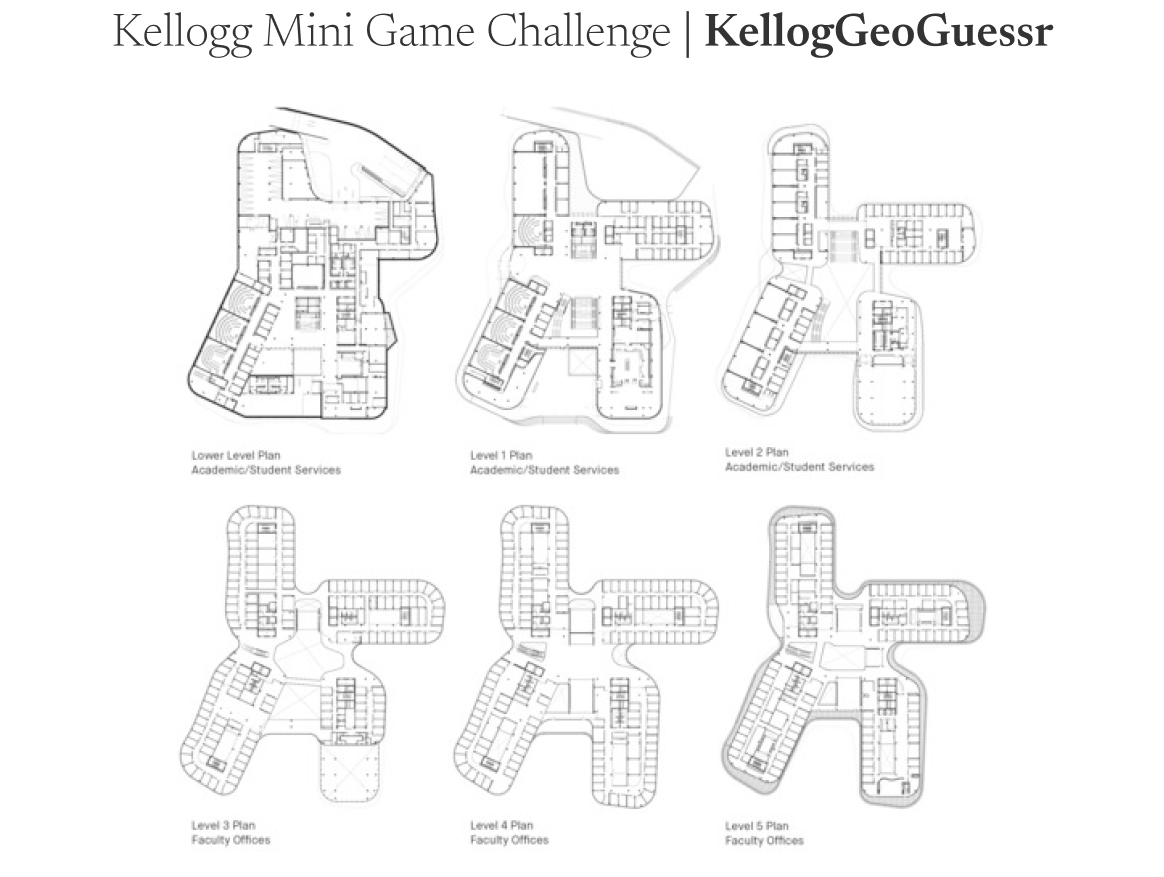
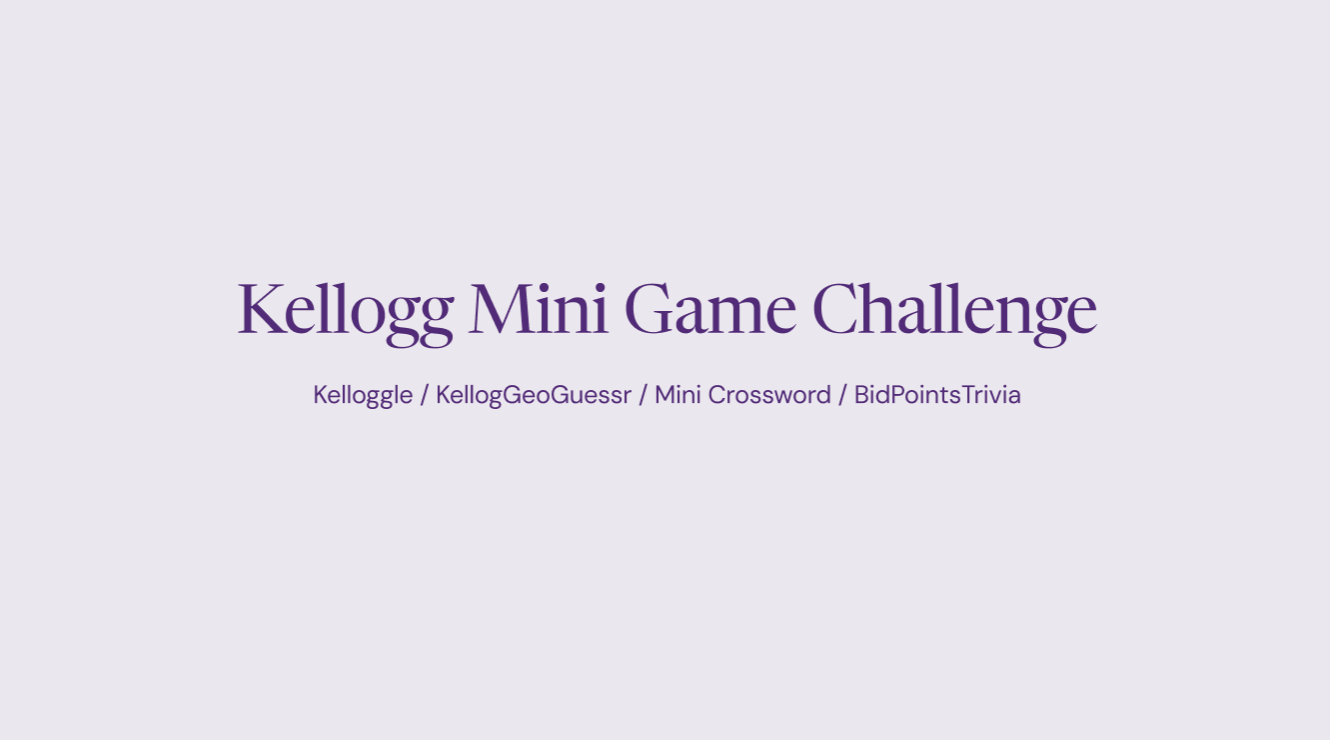
fixed covers

diff --git a/projects.js b/projects.js
@@ -307,7 +307,7 @@ const projectsData = [
         role: "Developer",
         year: "2024",
         category: "visuals games software",
-        image: "assets/catan-clash-logo.png",
+        image: "assets/catan_clash_cover.png",
         link: "https://catan-website-git-main-gautamchebrolus-projects.vercel.app/",
         detail: {
             heroImage: "assets/catan_clash.png",
@@ -438,10 +438,10 @@ const projectsData = [
         role: "Creator, Duke",
         year: "2017",
         category: "teaching",
-        image: "assets/kanye_101.png",
+        image: "assets/kanye_101_cover.png",
         link: "https://docs.google.com/document/d/1rx50q7oKfnLhmz2bUFMA9IPnIueRHebEnlrZT6iCYRY/edit?usp=sharing",
         detail: {
-            heroImage: "",
+            heroImage: "assets/kanye_101.png",
             summary: "A student-led course at Duke University examining ourselves through teh lens of Kanye West.",
             sections: [
                 {